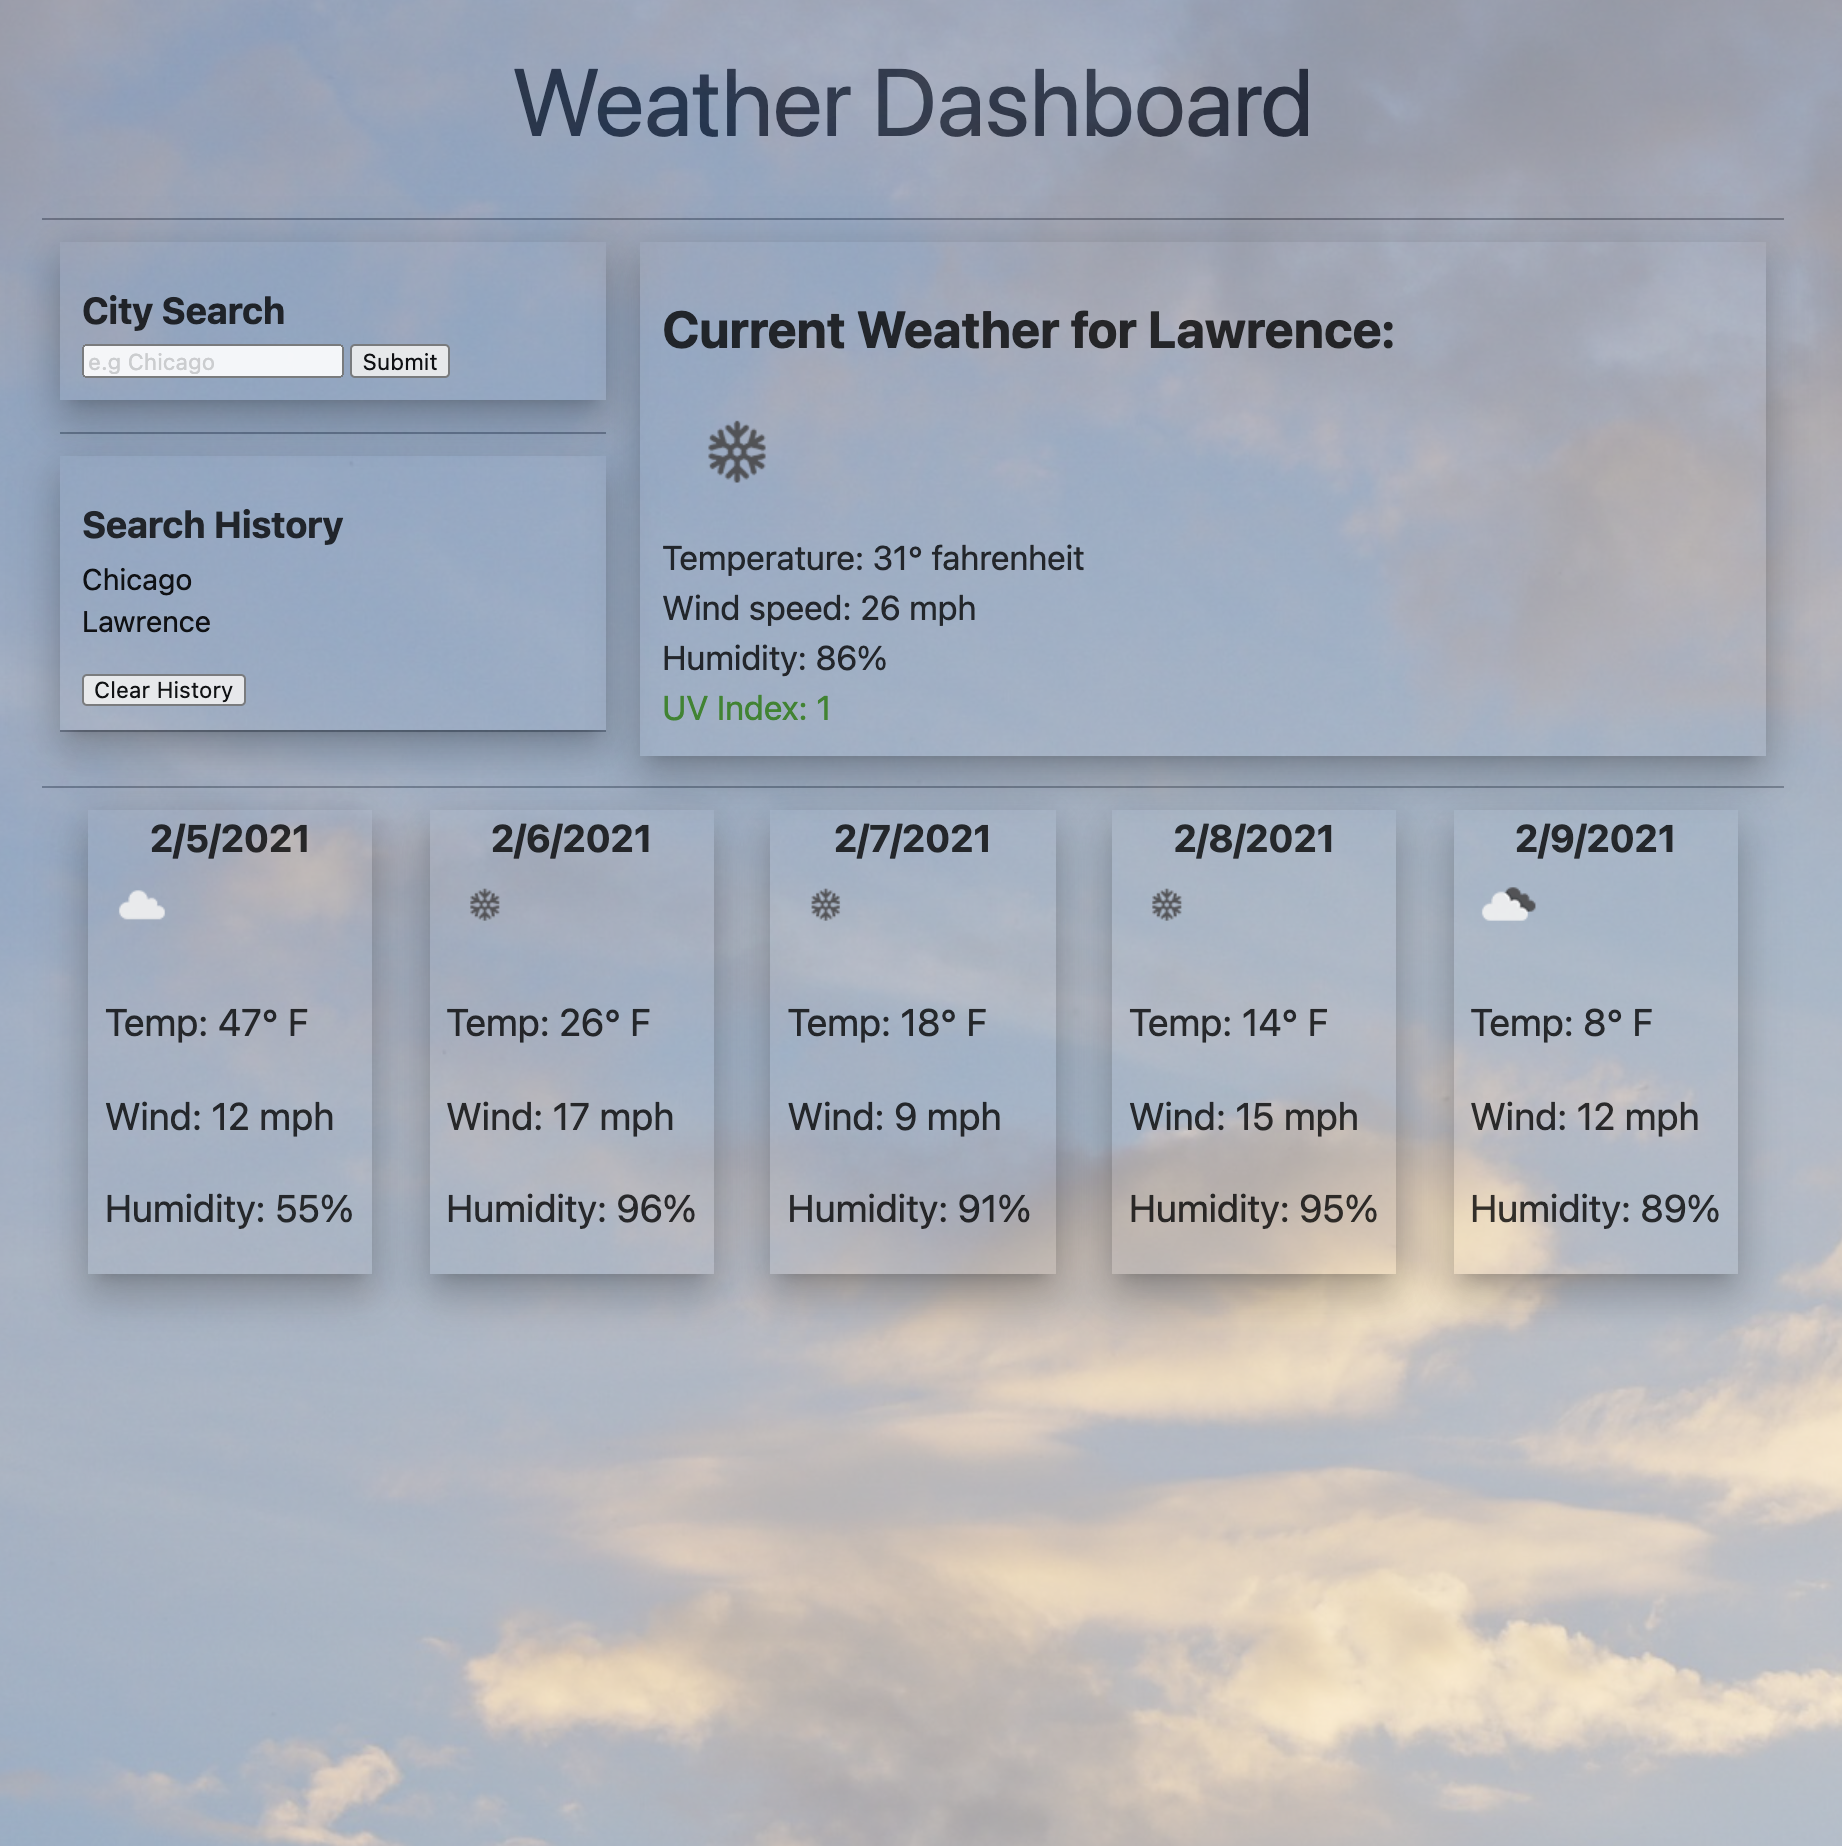
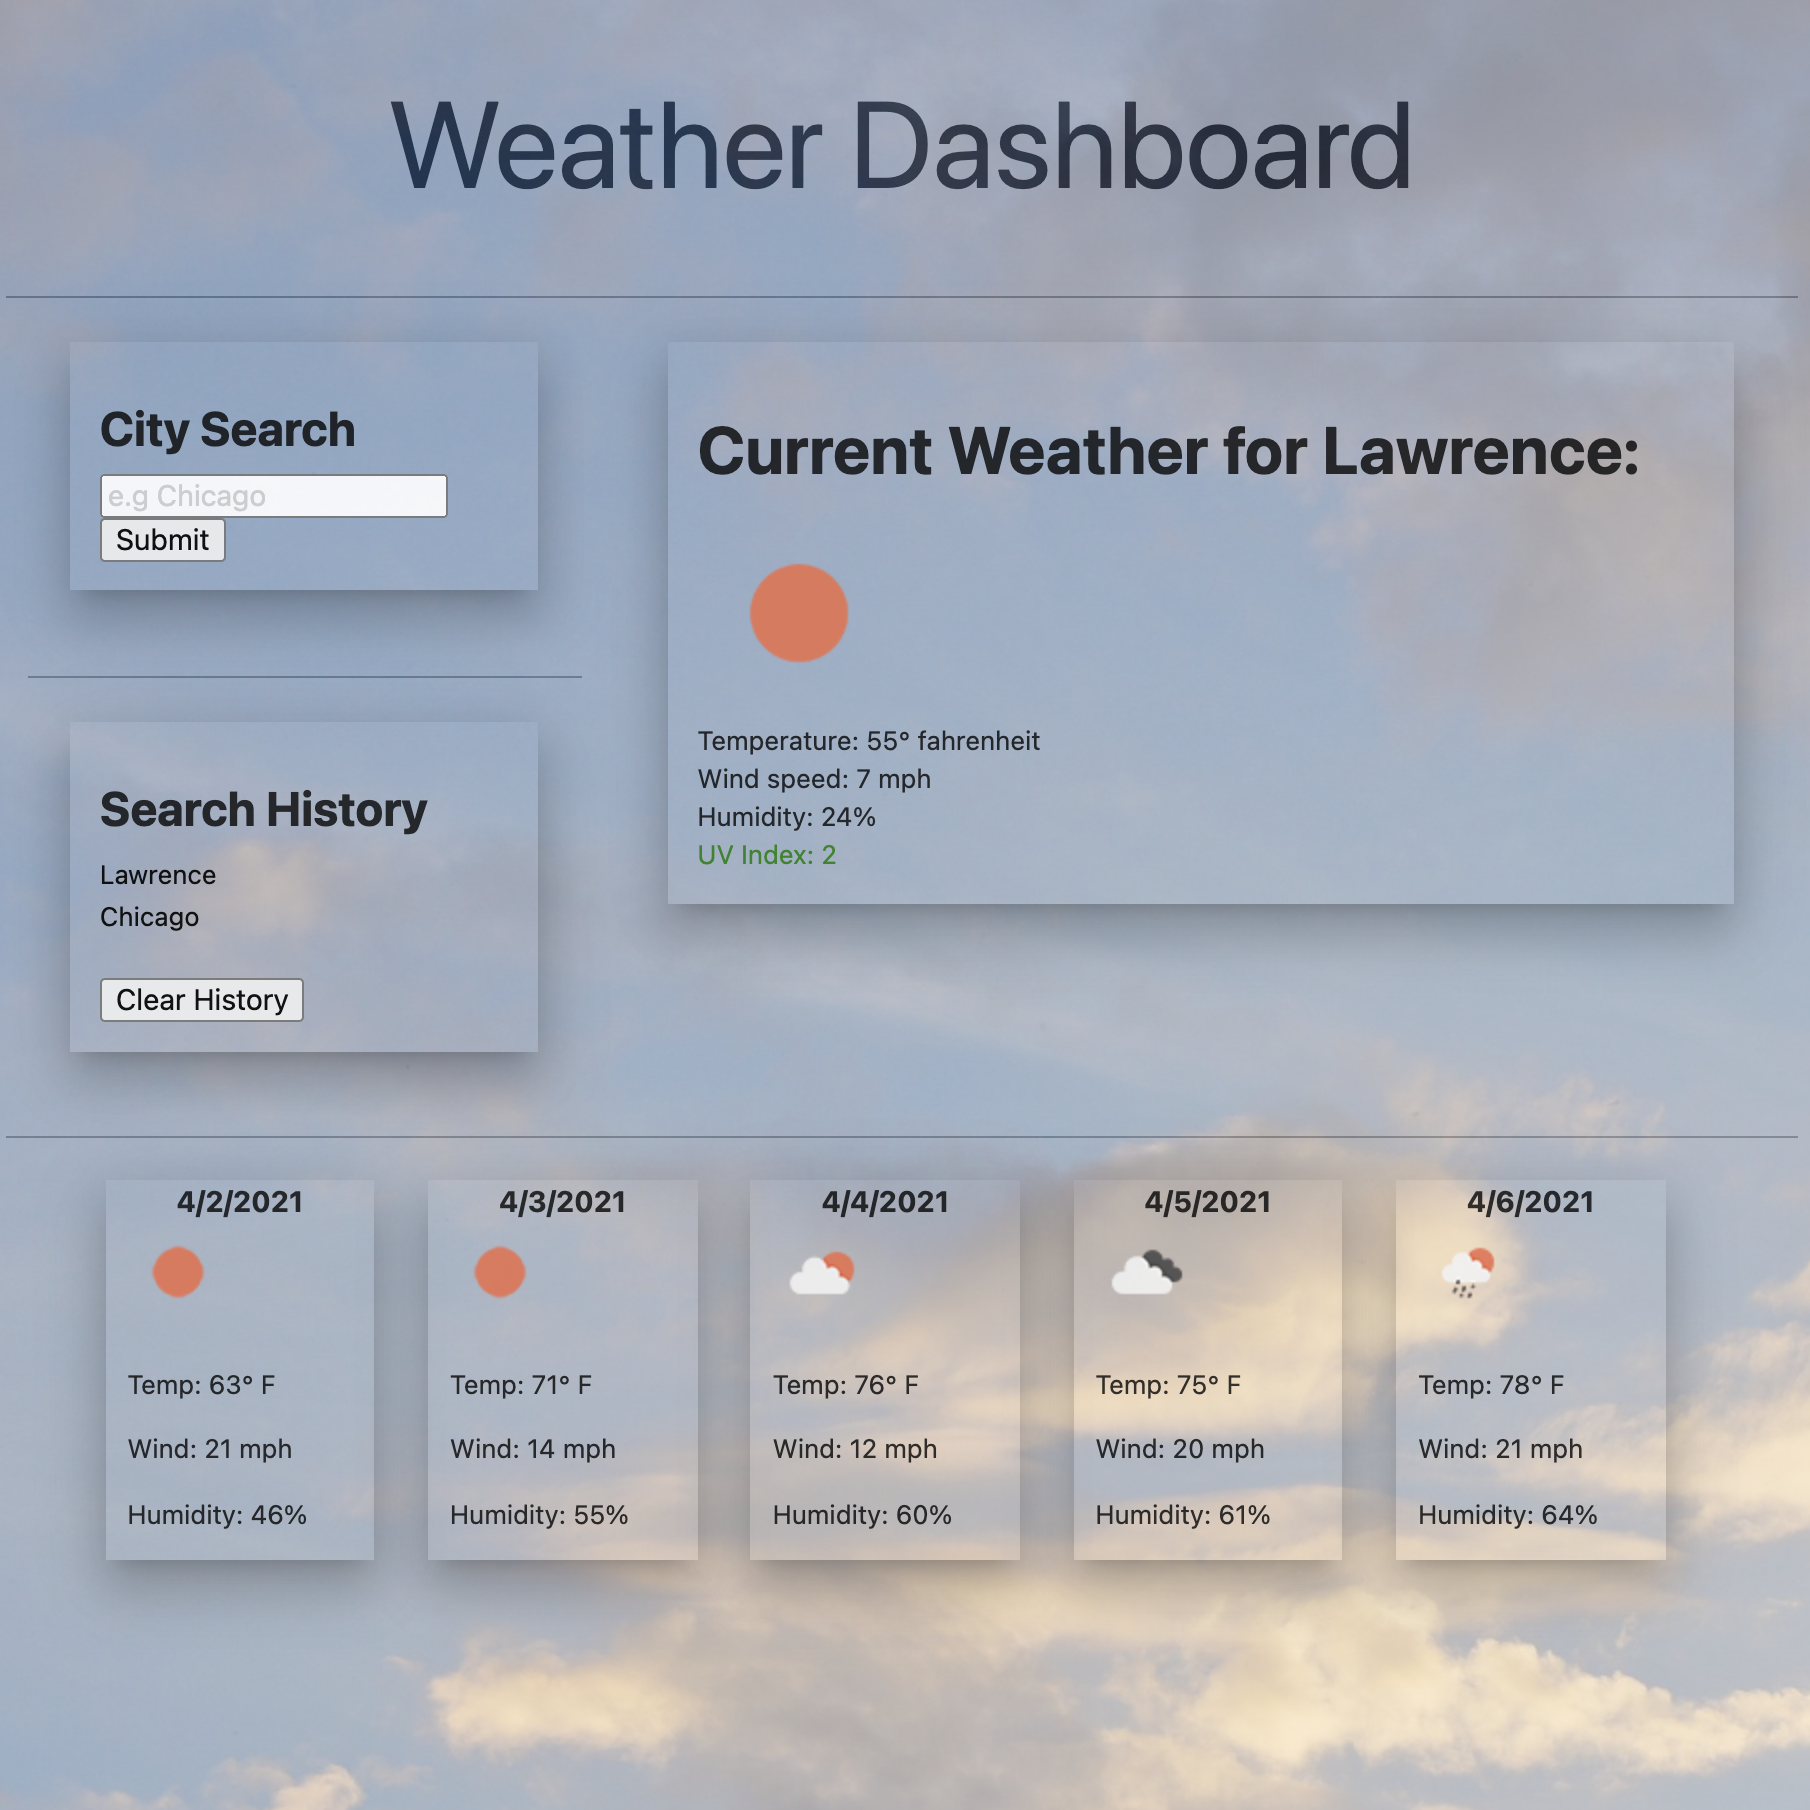
update style

diff --git a/script.js b/script.js
@@ -110,7 +110,7 @@ $(document).ready(function () {
         for (var j = 1; j < 6; j++) {
             var forecastDiv = $('<div id="forecast" + j + class="col s12 m12 l2 flow-text boxes z-depth-4 container opacity"></div>');
             var readableDate = new Date(weatherData.daily[j].dt * 1000).toLocaleDateString("en-US");
-            var date1 = $("<div>").text(readableDate).addClass("center-align bold");
+            var date1 = $("<div>").text(readableDate).addClass("center-align bold").css({"font-size": "1.0rem"});
             var icon1 = $("<img>").attr('src', 'http://openweathermap.org/img/wn/' + weatherData.daily[j].weather[0].icon + ".png").addClass("bold");
             var temp1 = $("<p>").text("Temp: " + weatherData.daily[j].temp.max.toFixed(0) + "° F").addClass("detailsText");
             var wind1 = $("<p>").text("Wind: " + weatherData.daily[j].wind_speed.toFixed(0) + " mph").addClass("detailsText");

diff --git a/style.css b/style.css
@@ -25,9 +25,24 @@
 }
 
 #forecasts {
-  display: inline-block;
-  padding: 3rem;
-  margin: 1.5rem;
+  display: flex;
+  flex-direction: row;
+  justify-content: space-evenly;
+}
+
+@media only screen and (max-width: 992px) {
+  #forecasts {
+    display: flex;
+    flex-direction: row;
+    justify-content: space-evenly;
+  }
+}
+
+@media only screen and (max-width: 600px) {
+  #forecasts {
+    display: flex;
+    flex-direction: column;
+  }
 }
 
 .boxes {
@@ -46,7 +61,7 @@
 }
 
 .detailsText {
-  font-size: 1.5rem;
+  font-size: .90rem;
 }
 
 .forecastWidth {
